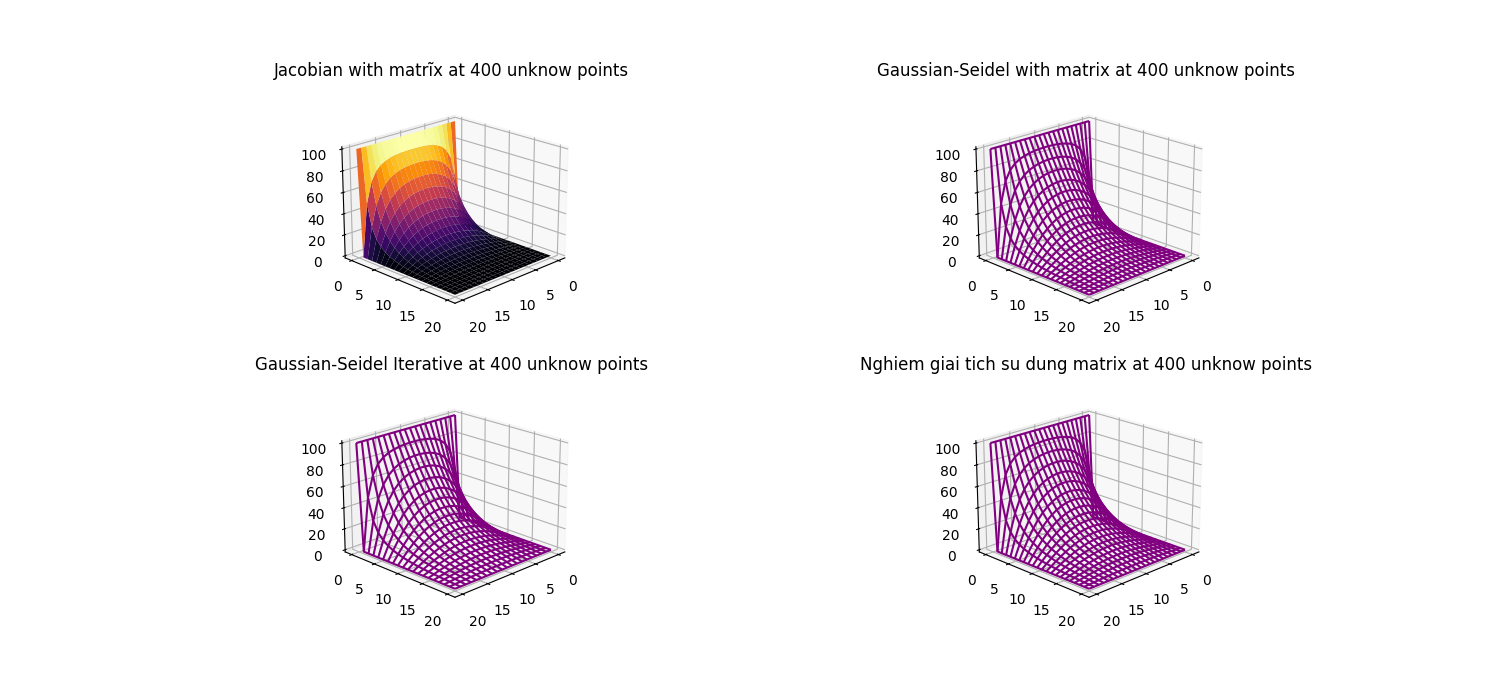
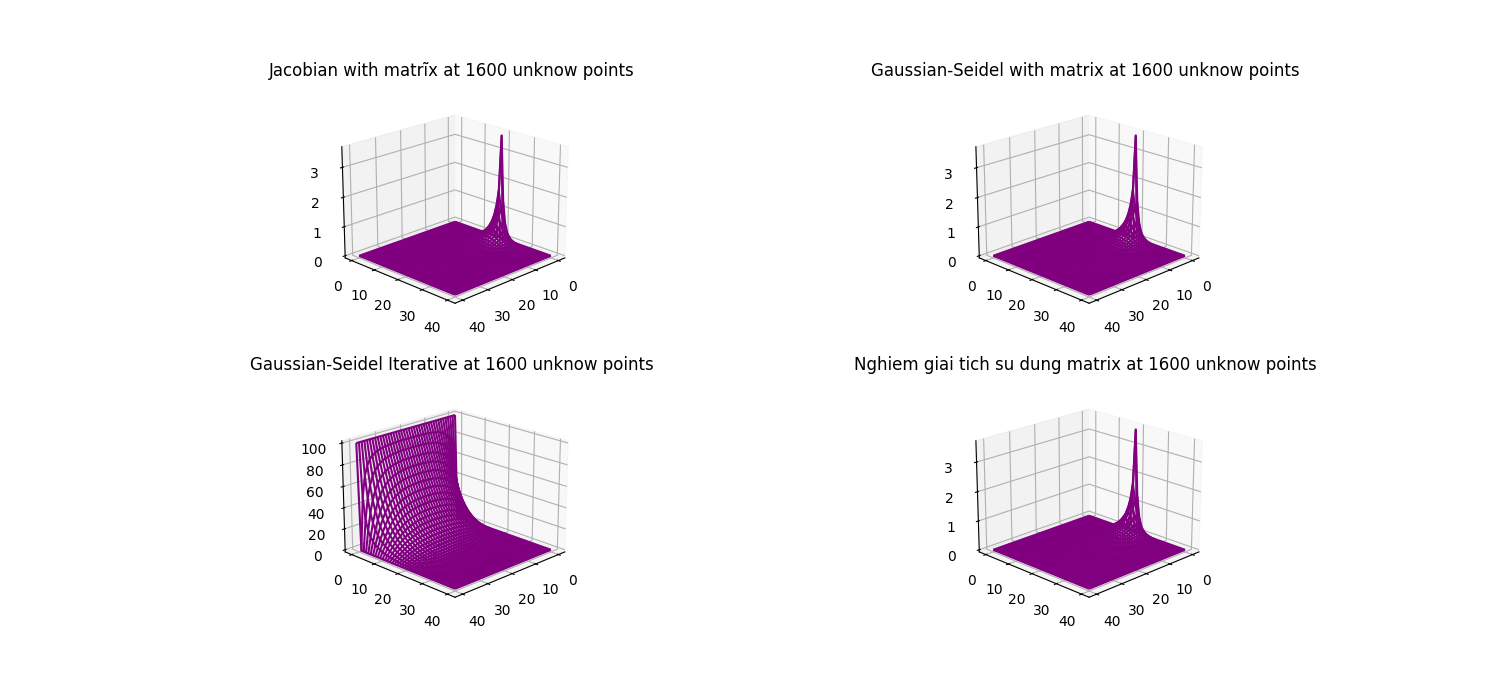
update buoi 7 with electric point

diff --git a/buoi_7_3110/main.py b/buoi_7_3110/main.py
@@ -6,7 +6,6 @@ from math import sqrt
 import matplotlib.pyplot as plt
 import csv
 from tqdm import tqdm
-from os import system, remove
 import subprocess
 
 
@@ -126,10 +125,13 @@ def createMatrix(dim: int):
     # print(AMatrix, "\n")
 
     BMatrix = np.zeros([dim**2, 1])
+    BMatrix[int(len(BMatrix) / 2)][0] = -10
 
-    for i in range(0, dim):
-        BMatrix[i] = -100
-        # BMatrix[-i - 1] = 100
+    # for i in range(0, dim):
+    #    BMatrix[i] = 0
+    # BMatrix[-i - 1] = 100
+
+    print(BMatrix)
 
     return AMatrix, BMatrix
 
@@ -163,6 +165,7 @@ def Gauss(d, N, u):
         for i in range(1, d - 1):
             for j in range(1, d - 1):
                 u[i][j] = 0.25 * (u[i + 1][j] + u[i - 1][j] + u[i][j + 1] + u[i][j - 1])
+
     return u
 
 
@@ -211,7 +214,7 @@ def plotSol(file, grid, vMatrixJacobi, vMatrixGauss, GaussWOMatrix, vGiaiTich):
 def saveLog(file: str, N, Jacobian, Gaussian, i, j):
     with open(file, "w", newline="") as writefile:
         header = [f"{'n':^4}", f"{'i':^4}", f"{'j':^4}", f"{'Jacobian':^18}", f"{'Gaussian':^18}"]
-        writer = csv.DictWriter(writefile, fieldnames=header, delimiter=f"{"\t":<1}")
+        writer = csv.DictWriter(writefile, fieldnames=header, delimiter=f"{'\t':<1}")
         writer.writeheader()
 
         n = 0
@@ -263,9 +266,9 @@ def gnuPlot():
 
 
 def main():
-    numberLoop = 1000
-    ic = 100
-    unknowPoints = 4
+    numberLoop = 100
+    ic = 0
+    unknowPoints = 40
     i, j = unknowPoints, unknowPoints
     dim = unknowPoints
     fileSave = "ElectricPotentials.txt"

diff --git a/buoi_7_3110/Laplace.py b/buoi_7_3110/Laplace.py
@@ -20,6 +20,7 @@ def Gauss(d, N, u):
     return u
 
 
+
 def main():
     N = 10000
     d = 40
